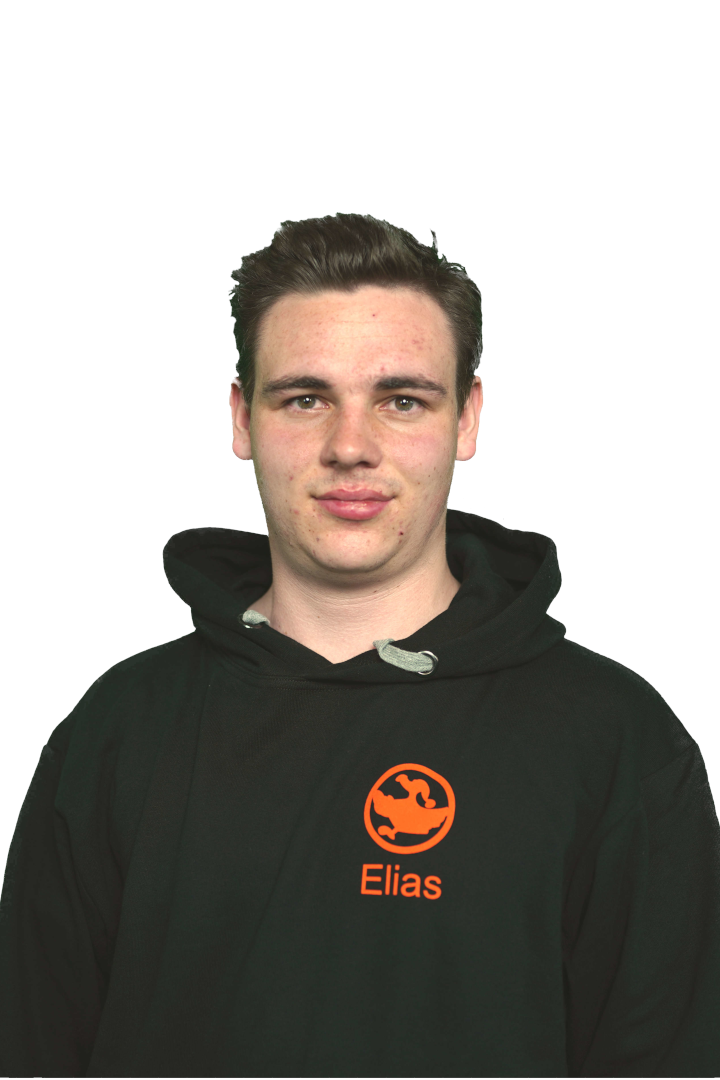
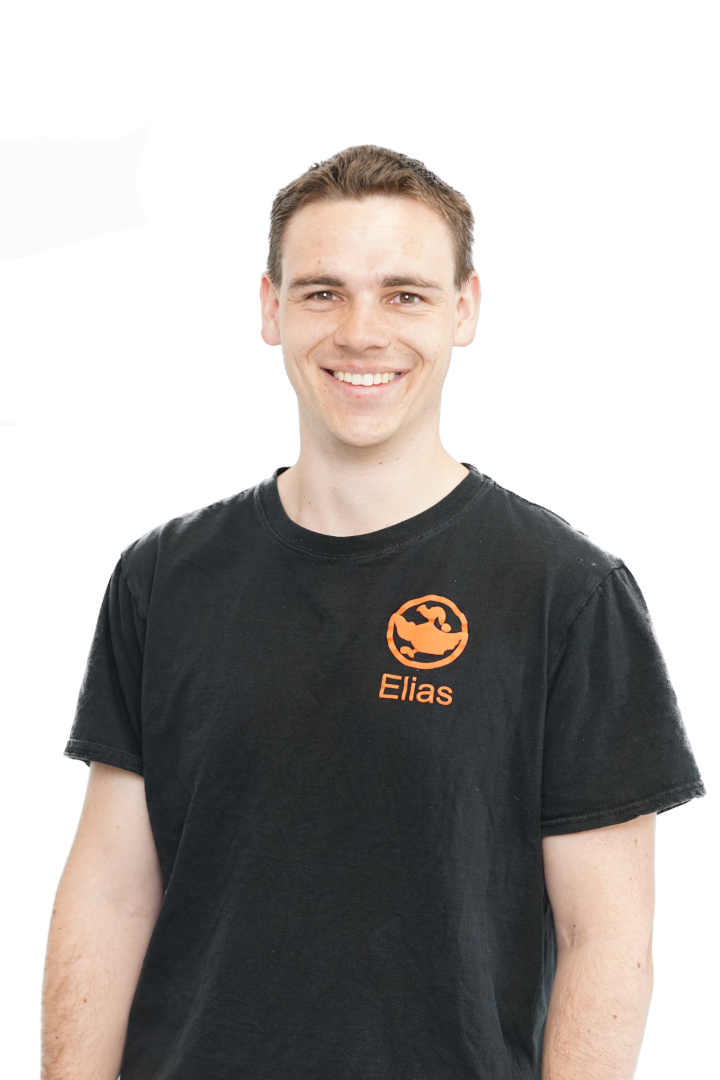
added Martin and Elias pictures

diff --git a/en/index.html b/en/index.html
@@ -137,7 +137,7 @@
 							<div style="height: 50px"></div>
 						</div>
 						<div style="margin: 0 auto">
-							<img src="/hs-wahl/img/portraits/isabelx.png" style="max-width: 250px; height: 240px; background-size: cover; margin-left: 20px; margin-right:  0px; margin-top: 0px;"><img src="/hs-wahl/img/portraits/ghofranex.png" style="max-width: 250px; height: 240px; background-size: cover; margin-right: 0px; margin-left:  0px;"><img src="/hs-wahl/img/portraits/Elias.png" style="max-width: 250px; height: 240px; background-size: cover; margin-right: 20px; margin-left:  0px; margin-top: 0px;">
+							<img src="/hs-wahl/img/portraits/isabelx.png" style="max-width: 250px; height: 240px; background-size: cover; margin-left: 20px; margin-right:  0px; margin-top: 0px;"><img src="/hs-wahl/img/portraits/ghofranex.png" style="max-width: 250px; height: 240px; background-size: cover; margin-right: 0px; margin-left:  0px;"><img src="/hs-wahl/img/portraits/EliasBestesBildEVER.png" style="max-width: 250px; height: 240px; background-size: cover; margin-right: 20px; margin-left:  0px; margin-top: 0px;">
 						</div>
 						<div style="width: 200px; height: 200px; float: right; text-align: left; line-height: 70%; align-self: center;">
 							<span>Elias</span>

diff --git a/index.html b/index.html
@@ -137,7 +137,7 @@
 							<div style="height: 50px"></div>
 						</div>
 						<div style="margin: 0 auto">
-							<img src="img/portraits/isabelx.png" style="max-width: 250px; height: 240px; background-size: cover; margin-left: 20px; margin-right:  0px; margin-top: 0px;"><img src="img/portraits/ghofranex.png" style="max-width: 250px; height: 240px; background-size: cover; margin-right: 0px; margin-left:  0px;"><img src="img/portraits/Elias.png" style="max-width: 250px; height: 240px; background-size: cover; margin-right: 20px; margin-left:  0px; margin-top: 0px;">
+							<img src="img/portraits/isabelx.png" style="max-width: 250px; height: 240px; background-size: cover; margin-left: 20px; margin-right:  0px; margin-top: 0px;"><img src="img/portraits/ghofranex.png" style="max-width: 250px; height: 240px; background-size: cover; margin-right: 0px; margin-left:  0px;"><img src="img/portraits/EliasBestesBildEVER.png" style="max-width: 250px; height: 240px; background-size: cover; margin-right: 20px; margin-left:  0px; margin-top: 0px;">
 						</div>
 						<div style="width: 200px; height: 200px; float: right; text-align: left; line-height: 70%; align-self: center;">
 							<span>Elias</span>
